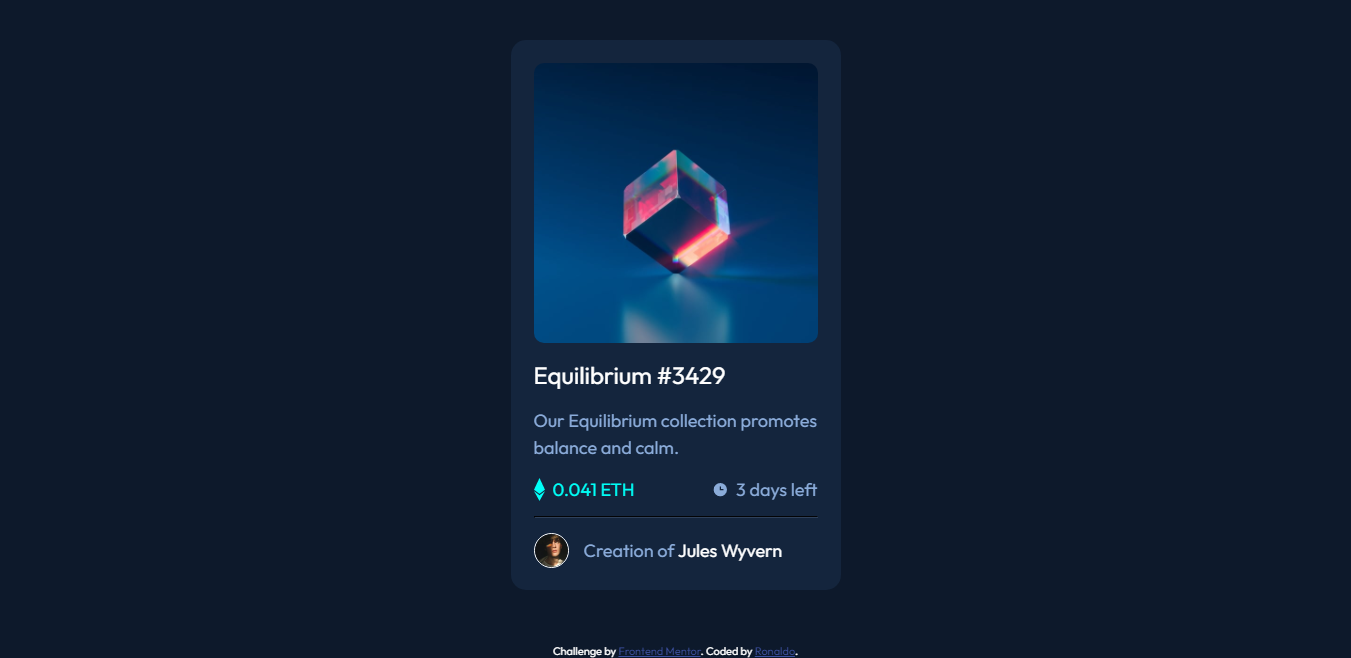
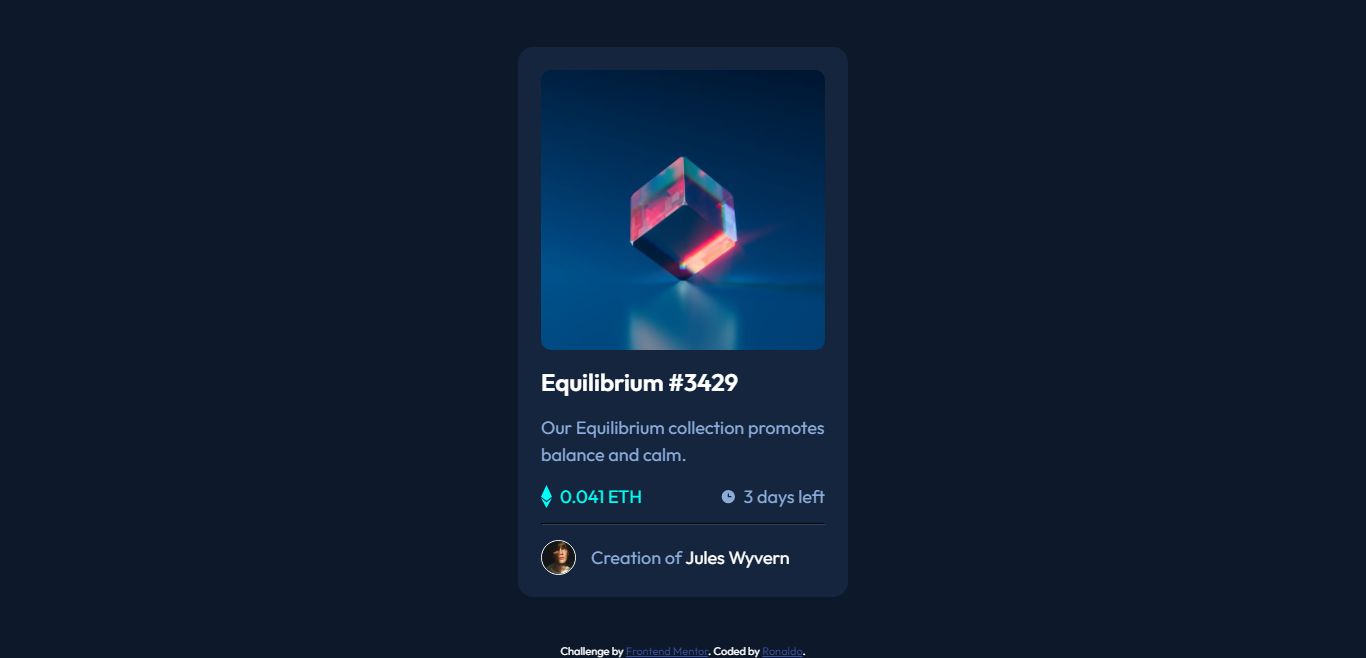
alterações de layout

diff --git a/stylesheets/style.css b/stylesheets/style.css
@@ -15,6 +15,7 @@ html {
 html,
 body {
   height: 100%;
+  background-color: hsl(217, 54%, 11%);
 }
 
 body,
@@ -36,6 +37,7 @@ h2 {
   color: hsl(0, 0%, 100%);
   margin: 17px 0;
   display: inline-block;
+  font-weight: 600;
 }
 
 hr {
@@ -45,6 +47,10 @@ hr {
 img {
   max-width: 100%;
   height: auto;
+}
+
+main {
+  margin: auto;
 }
 
 p {
@@ -66,10 +72,10 @@ span {
 }
 
 .container {
+  height: 100vh;
   display: flex;
   flex-direction: column;
   justify-content: space-between;
-  background-color: hsl(217, 54%, 11%);
 }
 
 .container-creator {
@@ -126,7 +132,7 @@ span {
   height: 550px;
   min-width: 330px;
   background-color: hsl(216, 50%, 16%);
-  margin: 4% auto;
+  margin: auto;
   border-radius: 15px;
   padding: 23px;
 }
